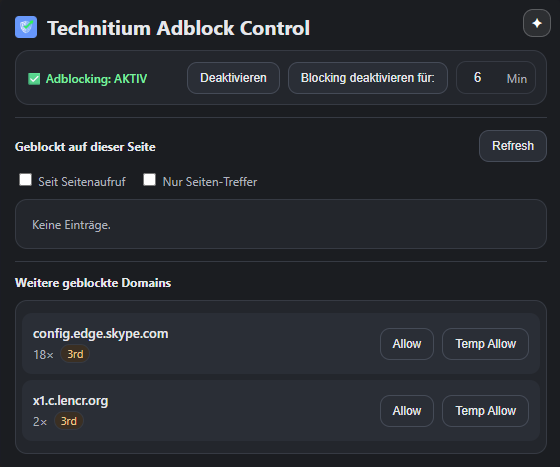
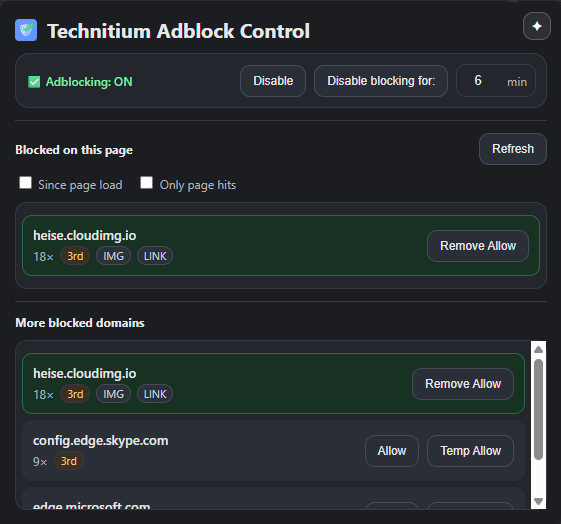
Fix: Improve blocking detection for page context
Adds a new API endpoint `blockedForDomain` to query the Technitium DNS
server for specific blocked domains within a given time window.

This change also refactors the `blockedList` logic in the popup to
better identify and display domains that are blocked in the context of
the currently active browser tab. It now includes a check for the main
page host itself and synthesizes an entry if the page is blocked but not
directly captured in resource logs.

Updates README to reflect version 0.3.1.

diff --git a/popup/popup.js b/popup/popup.js
@@ -468,26 +468,43 @@ async function refreshAll() {
     return;
   }
 
+  let pageTabHost = "";
+  try {
+    pageTabHost = new URL(tab.url).hostname.toLowerCase();
+  } catch {
+    pageTabHost = "";
+  }
+
   let snapshot;
   try {
     snapshot = await collectPageSnapshot(tab.id);
   } catch {
-    pageStatus.textContent = t("popup_analysis_not_possible");
-    pageBlockedList.innerHTML = `<div class="empty">${t("popup_empty")}</div>`;
-    blockedList.innerHTML = `<div class="empty">${t("popup_empty")}</div>`;
-    return;
+    // Auf Fehlerseiten (z.B. chrome-error://...) kann kein Snapshot per Performance API
+    // erstellt werden. Wir fallen dann auf ein minimales Snapshot-Objekt zurück,
+    // nutzen aber weiterhin die Tab-URL für das Domain-Matching.
+    snapshot = {
+      pageHost: pageTabHost,
+      pageStartEpoch: Date.now(),
+      hosts: [],
+      hostTypes: {},
+    };
   }
 
   const sinceLoad = toggleSinceLoad.checked;
 
   let blockedRes;
+  let logWindow = { sinceLoad, startIso: null, endIso: null, seconds: null };
   try {
     if (sinceLoad) {
       const start = new Date(snapshot.pageStartEpoch - 2000).toISOString();
       const end = new Date().toISOString();
+      logWindow.startIso = start;
+      logWindow.endIso = end;
       blockedRes = await send("blockedList", { startIso: start, endIso: end });
     } else {
-      blockedRes = await send("blockedList", { seconds: 120 });
+      const seconds = 120;
+      logWindow.seconds = seconds;
+      blockedRes = await send("blockedList", { seconds });
     }
   } catch (e) {
     blockedRes = { error: e?.message || t("popup_generic_error") };
@@ -510,9 +527,53 @@ async function refreshAll() {
     typesByDomain[it.domain] = typeLabelsForDomain(it.domain, hostTypesObj);
   }
 
-  const pageRelevant = allItems.filter((it) =>
+  // 1) Domains, die zu Ressourcen-Hosts der Seite passen
+  let pageRelevant = allItems.filter((it) =>
     pageHosts.some((h) => hostMatchesBlocked(h, it.domain)),
   );
+
+  // 2) Sicherstellen, dass auch die Haupt-Domain der Seite selbst erfasst wird,
+  //    selbst wenn keine Ressourcen geladen wurden (z.B. bei hart geblockter Startseite).
+  const pageNorm = normalizeDomain(pageTabHost || snapshot.pageHost);
+  if (pageNorm) {
+    const already = new Set(pageRelevant.map((x) => normalizeDomain(x.domain)));
+    for (const it of allItems) {
+      if (already.has(normalizeDomain(it.domain))) continue;
+      if (hostMatchesBlocked(pageNorm, it.domain)) {
+        pageRelevant.push(it);
+        already.add(normalizeDomain(it.domain));
+      }
+    }
+
+    // 3) Falls die Seite selbst geblockt wurde, aber in allItems noch nicht auftaucht
+    //    (z.B. weil nur NXDOMAIN-Top-Level-Query geloggt wurde), prüfen wir explizit
+    //    per Log-Query gegen Technitium und mergen einen synthetischen Eintrag.
+    const existsInAll = allItems.some(
+      (it) => normalizeDomain(it.domain) === pageNorm,
+    );
+    if (!existsInAll) {
+      let extraRes;
+      if (logWindow.sinceLoad && logWindow.startIso && logWindow.endIso) {
+        extraRes = await send("blockedForDomain", {
+          domain: pageNorm,
+          startIso: logWindow.startIso,
+          endIso: logWindow.endIso,
+        });
+      } else {
+        extraRes = await send("blockedForDomain", {
+          domain: pageNorm,
+          seconds: logWindow.seconds || 120,
+        });
+      }
+
+      if (extraRes?.ok && extraRes.item) {
+        allItems.push(extraRes.item);
+        if (!already.has(pageNorm)) {
+          pageRelevant.push(extraRes.item);
+        }
+      }
+    }
+  }
 
   // Allow-Status optional (per option) – wir fragen batch an
   const domainsForCheck = Array.from(new Set(allItems.map((x) => x.domain)));
@@ -523,7 +584,7 @@ async function refreshAll() {
     ? allowStatusRes.allowed || {}
     : {};
 
-  renderList(pageBlockedList, pageRelevant, snapshot.pageHost, allowedMap, typesByDomain, {
+  renderList(pageBlockedList, pageRelevant, pageTabHost || snapshot.pageHost, allowedMap, typesByDomain, {
     onAllow: (d) =>
       doDomainAction("allowDomain", d).then((ok) => ok && refreshAll()),
     onRemoveAllow: (d) =>
@@ -533,7 +594,7 @@ async function refreshAll() {
   });
 
   if (!toggleOnlyHits.checked) {
-    renderList(blockedList, allItems, snapshot.pageHost, allowedMap, typesByDomain, {
+    renderList(blockedList, allItems, pageTabHost || snapshot.pageHost, allowedMap, typesByDomain, {
       onAllow: (d) =>
         doDomainAction("allowDomain", d).then((ok) => ok && refreshAll()),
       onRemoveAllow: (d) =>

diff --git a/background/serviceWorker.js b/background/serviceWorker.js
@@ -264,9 +264,28 @@ function normalizeDomain(qname) {
   return String(qname).trim().toLowerCase().replace(/\.$/, "");
 }
 
+function isBlockedLogEntry(e) {
+  // Heuristik:
+  // - responseType enthält "blocked" (z.B. "Blocked", "CacheBlocked", "UpstreamBlocked")
+  // - oder RCODE deutet auf NXDOMAIN hin (typischer Fall bei NxDomain-Blocking)
+  const rtRaw = e.responseType;
+  const rt =
+    typeof rtRaw === "string" ? rtRaw.toLowerCase() : String(rtRaw || "");
+  const rcRaw = e.rcode || e.RCODE;
+  const rc =
+    typeof rcRaw === "string" ? rcRaw.toLowerCase() : String(rcRaw || "");
+
+  if (rt.includes("blocked")) return true;
+  if (rc.includes("nxdomain")) return true;
+
+  return false;
+}
+
 function aggregateBlocked(entries) {
   const map = new Map(); // domain -> { domain, count, lastSeen }
   for (const e of entries) {
+    if (!isBlockedLogEntry(e)) continue;
+
     const d = normalizeDomain(e.qname);
     if (!d) continue;
 
@@ -284,6 +303,56 @@ function aggregateBlocked(entries) {
     if (b.count !== a.count) return b.count - a.count;
     return a.domain.localeCompare(b.domain);
   });
+}
+
+async function findBlockedForDomain(domain, options = {}) {
+  const dNorm = normalizeDomain(domain);
+  if (!dNorm) return null;
+
+  const ql = await detectQueryLoggerApp();
+
+  let startIso;
+  let endIso;
+
+  if (options.startIso && options.endIso) {
+    startIso = options.startIso;
+    endIso = options.endIso;
+  } else {
+    const secondsDefault = await getOptionNumber(LOG_WINDOW_SECONDS_KEY, 120);
+    const seconds = Math.max(
+      10,
+      Math.floor(options.seconds || secondsDefault),
+    );
+    endIso = new Date().toISOString();
+    startIso = new Date(Date.now() - seconds * 1000).toISOString();
+  }
+
+  const res = await queryLogs({
+    name: ql.name,
+    classPath: ql.classPath,
+    entriesPerPage: 200,
+    descendingOrder: true,
+    startIso,
+    endIso,
+    qname: dNorm,
+  });
+
+  const entries = res.response?.entries || [];
+
+  let count = 0;
+  let lastSeen = null;
+
+  for (const e of entries) {
+    if (normalizeDomain(e.qname) !== dNorm) continue;
+    if (!isBlockedLogEntry(e)) continue;
+    count += 1;
+    const ts = e.timestamp || null;
+    if (ts && (!lastSeen || ts > lastSeen)) lastSeen = ts;
+  }
+
+  if (count === 0) return null;
+
+  return { domain: dNorm, count, lastSeen };
 }
 
 // Heuristik: wenn /allowed/list?domain=X “etwas Sinnvolles” zurückgibt,
@@ -398,7 +467,6 @@ chrome.runtime.onMessage.addListener((msg, sender, sendResponse) => {
 
       // ===== Blocked list =====
       if (msg.action === "blockedList") {
-        const clientIp = await inferClientIpFromLogs();
         const ql = await detectQueryLoggerApp();
 
         let startIso, endIso;
@@ -426,14 +494,30 @@ chrome.runtime.onMessage.addListener((msg, sender, sendResponse) => {
           descendingOrder: true,
           startIso,
           endIso,
-          clientIpAddress: clientIp,
-          responseType: "Blocked",
         });
 
         const entries = res.response?.entries || [];
         const items = aggregateBlocked(entries);
 
         sendResponse({ ok: true, items });
+        return;
+      }
+
+      // ===== Blocked for specific domain =====
+      if (msg.action === "blockedForDomain") {
+        const domain = normalizeDomain(msg.domain);
+        if (!domain) {
+          sendResponse({ ok: true, item: null });
+          return;
+        }
+
+        const item = await findBlockedForDomain(domain, {
+          startIso: msg.startIso,
+          endIso: msg.endIso,
+          seconds: msg.seconds,
+        });
+
+        sendResponse({ ok: true, item });
         return;
       }
 

diff --git a/docs/README.de.md b/docs/README.de.md
@@ -4,7 +4,7 @@ Zur englischen README: [../README.md](../README.md)
 
 > Eine leistungsstarke Browser-Extension für Chrome & Vivaldi zur Steuerung der Block-Funktion des [Technitium DNS Servers](https://technitium.com/dns/).
 
-![Version](https://img.shields.io/badge/version-0.3.0-blue.svg) ![Manifest](https://img.shields.io/badge/manifest-V3-success.svg) ![License](https://img.shields.io/badge/License-GPLv3-blue.svg)
+![Version](https://img.shields.io/badge/version-0.3.1-blue.svg) ![Manifest](https://img.shields.io/badge/manifest-V3-success.svg) ![License](https://img.shields.io/badge/License-GPLv3-blue.svg)
 
 **Technitium Adblock Control (TAC)** verbindet deinen Browser live mit deinem Technitium DNS-Server. Du kannst DNS-Blocking global steuern, Query-Logs in Echtzeit einsehen und geblockte Domains kontextbezogen zur aktuell geöffneten Webseite freigeben (oder Freigaben wieder entfernen).
 

diff --git a/README.md b/README.md
@@ -4,7 +4,7 @@ Deutsch: [docs/README.de.md](docs/README.de.md)
 
 > A powerful browser extension for Chrome & Vivaldi to control the blocking feature of the [Technitium DNS Server](https://technitium.com/dns/).
 
-![Version](https://img.shields.io/badge/version-0.3.0-blue.svg) ![Manifest](https://img.shields.io/badge/manifest-V3-success.svg) ![License](https://img.shields.io/badge/License-GPLv3-blue.svg)
+![Version](https://img.shields.io/badge/version-0.3.1-blue.svg) ![Manifest](https://img.shields.io/badge/manifest-V3-success.svg) ![License](https://img.shields.io/badge/License-GPLv3-blue.svg)
 
 **Technitium Adblock Control (TAC)** connects your browser live to your Technitium DNS server. It lets you control DNS blocking globally, inspect query logs in real time, and allow blocked domains in the context of the currently open webpage.
 
